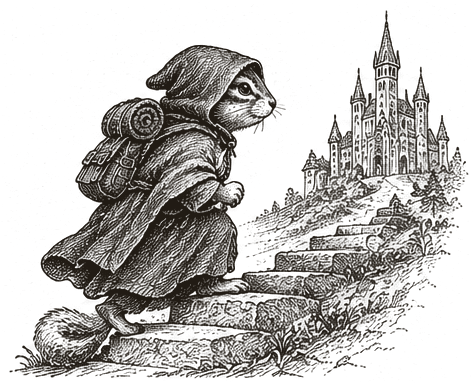
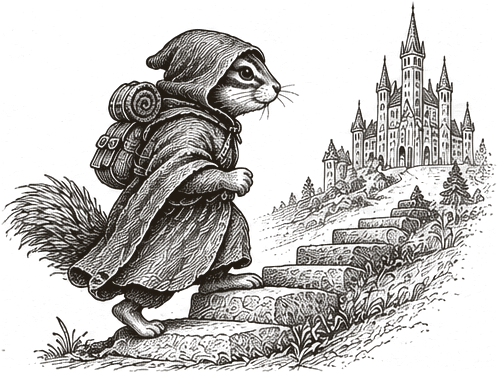
New chapter illustrations; remove unused files
- Replace the chapter engravings (About, Work, Education, Research,
  Achievement, Service and the Reference book icon) with crops from the
  new illustration sheet, as ink on a transparent background.
- Remove images the site no longer references: the original full-size
  die photos (web versions live in assets/images/chips/), the old
  illustration sheet and unused Chapter I plate, the old site's research
  icons, and the full-resolution portrait. All remain in Git history.

diff --git a/index.html b/index.html
@@ -685,7 +685,7 @@
   <section class="chapter" id="about" aria-labelledby="h-about">
     <div class="spread">
       <figure class="plate">
-        <img src="./assets/images/chipmonk/about.webp" width="338" height="375" alt="A hooded chipmunk with a travelling pack" loading="lazy">
+        <img src="./assets/images/chipmonk/about.webp" width="315" height="372" alt="A hooded chipmunk with a travelling pack" loading="lazy">
         <figcaption>Plate II</figcaption>
       </figure>
       <header class="heading">
@@ -704,7 +704,7 @@
   <section class="chapter" id="work" aria-labelledby="h-work">
     <div class="spread">
       <figure class="plate">
-        <img src="./assets/images/chipmonk/work.webp" width="388" height="339" alt="A hooded chipmunk writing with a quill at a wooden desk" loading="lazy">
+        <img src="./assets/images/chipmonk/work.webp" width="376" height="323" alt="A hooded chipmunk writing with a quill at a wooden desk" loading="lazy">
         <figcaption>Plate III</figcaption>
       </figure>
       <header class="heading">
@@ -754,7 +754,7 @@
   <section class="chapter" id="education" aria-labelledby="h-education">
     <div class="spread">
       <figure class="plate">
-        <img src="./assets/images/chipmonk/education.webp" width="475" height="384" alt="A hooded chipmunk climbing stone steps toward a castle on a hill" loading="lazy">
+        <img src="./assets/images/chipmonk/education.webp" width="499" height="374" alt="A hooded chipmunk climbing stone steps toward a castle on a hill" loading="lazy">
         <figcaption>Plate IV</figcaption>
       </figure>
       <header class="heading">
@@ -789,7 +789,7 @@
   <section class="chapter" id="research" aria-labelledby="h-research">
     <div class="spread">
       <figure class="plate">
-        <img src="./assets/images/chipmonk/research.webp" width="451" height="360" alt="A hooded chipmunk reading a heavy book beside an armillary sphere" loading="lazy">
+        <img src="./assets/images/chipmonk/research.webp" width="448" height="340" alt="A hooded chipmunk reading a heavy book beside an armillary sphere" loading="lazy">
         <figcaption>Plate V</figcaption>
       </figure>
       <header class="heading">
@@ -822,7 +822,7 @@
   <section class="chapter" id="achievement" aria-labelledby="h-achievement">
     <div class="spread">
       <figure class="plate">
-        <img src="./assets/images/chipmonk/achievement.webp" width="333" height="402" alt="A hooded chipmunk on a rock raising a trophy" loading="lazy">
+        <img src="./assets/images/chipmonk/achievement.webp" width="316" height="398" alt="A hooded chipmunk on a rock raising a trophy" loading="lazy">
         <figcaption>Plate VI</figcaption>
       </figure>
       <header class="heading">
@@ -846,7 +846,7 @@
   <section class="chapter" id="service" aria-labelledby="h-service">
     <div class="spread">
       <figure class="plate">
-        <img src="./assets/images/chipmonk/service.webp" width="516" height="345" alt="A hooded chipmunk offering a bowl to a rabbit" loading="lazy">
+        <img src="./assets/images/chipmonk/service.webp" width="513" height="329" alt="A hooded chipmunk offering a bowl to a rabbit" loading="lazy">
         <figcaption>Plate VII</figcaption>
       </figure>
       <header class="heading">
@@ -871,7 +871,7 @@
   <section class="chapter colophon" id="reference" aria-labelledby="h-reference">
     <div class="spread">
       <header class="heading">
-        <div class="seal"><img src="./assets/images/chipmonk/reference.webp" width="90" height="55" alt="" loading="lazy"></div>
+        <div class="seal"><img src="./assets/images/chipmonk/reference.webp" width="77" height="40" alt="" loading="lazy"></div>
         <p class="chapter-no">Chapter VIII</p>
         <h2 id="h-reference">Reference</h2>
       </header>
